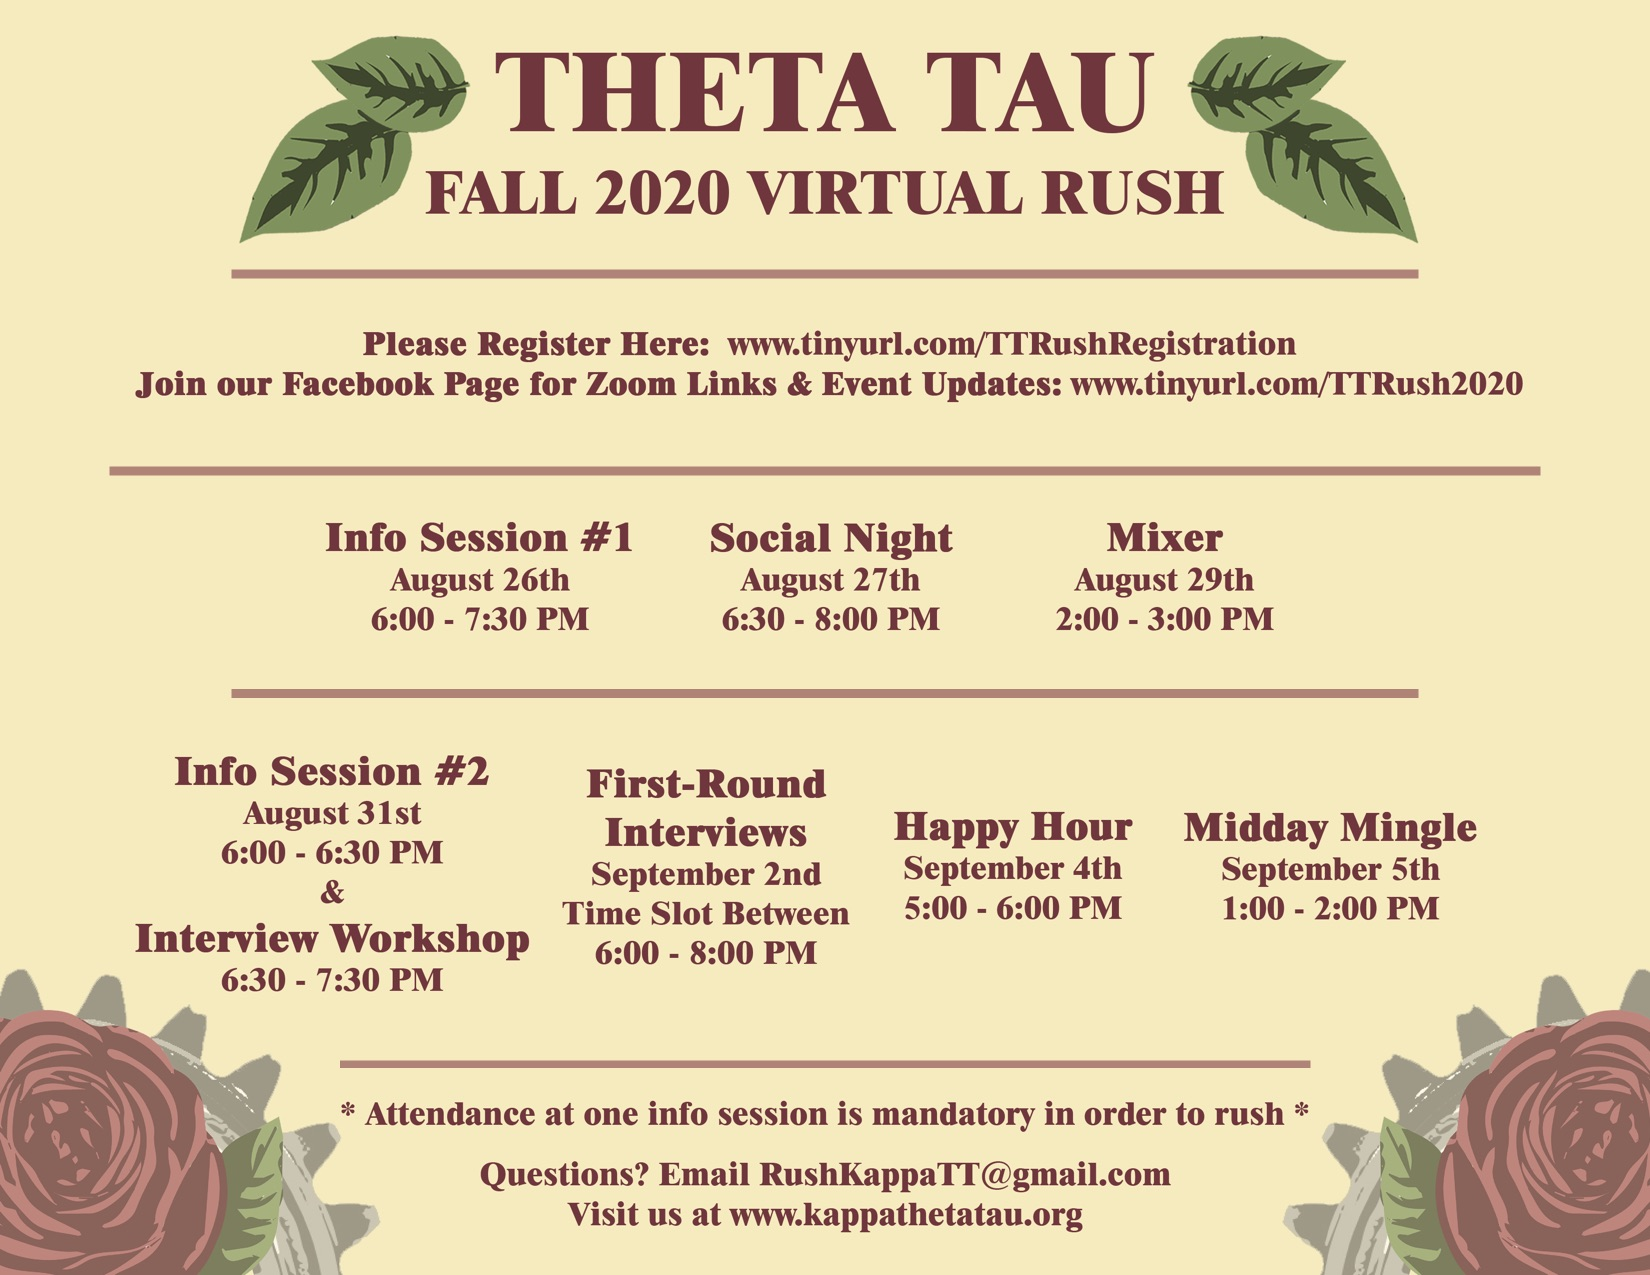
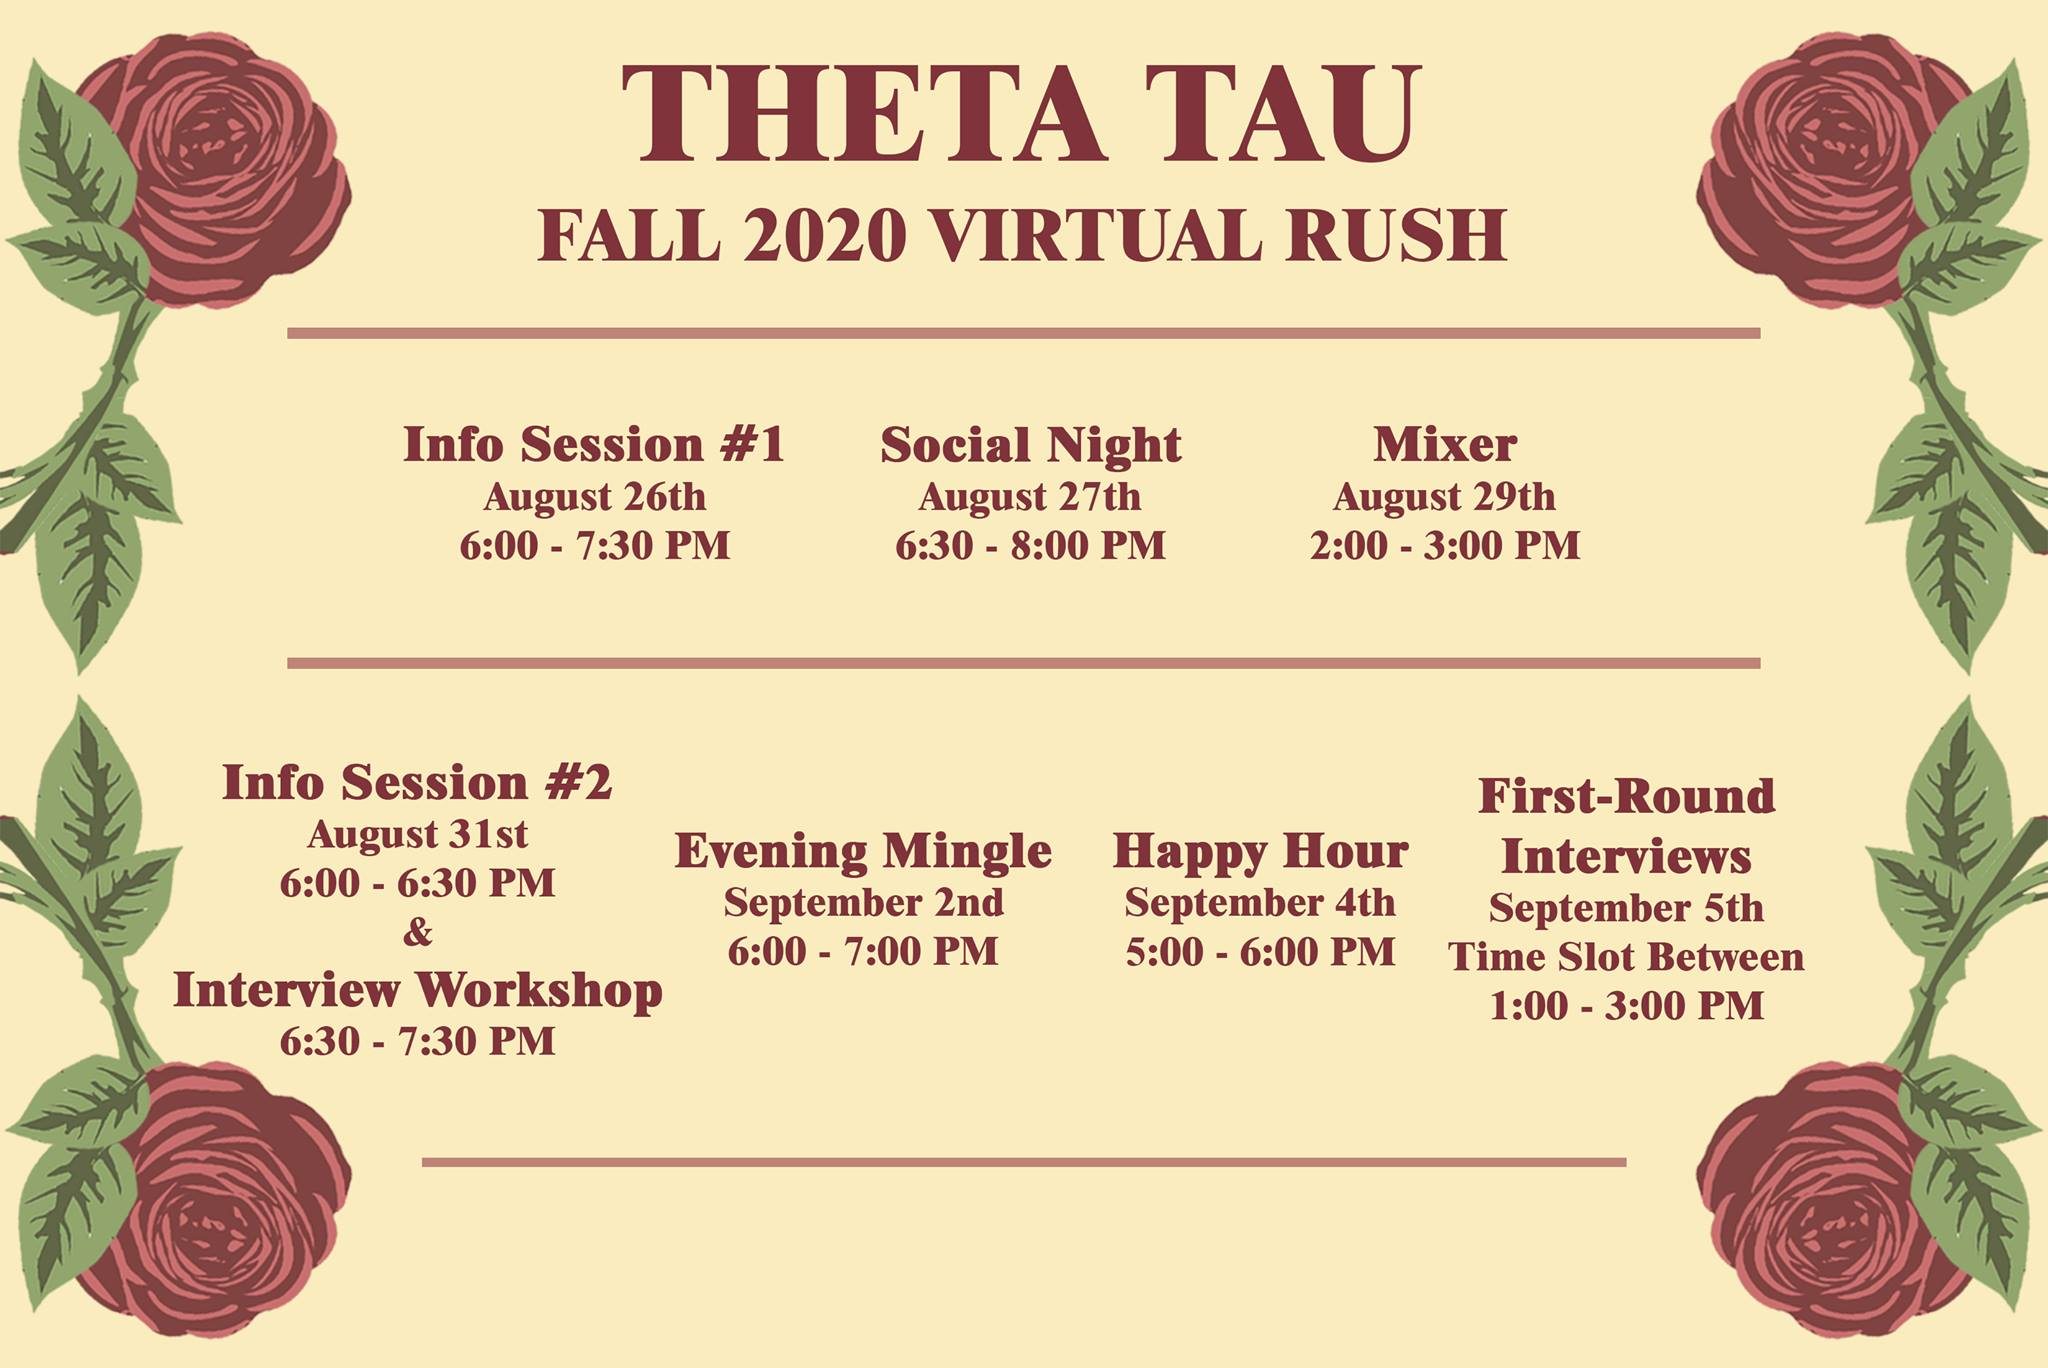
Updated fall rush

diff --git a/_posts/2020-08-14-fall-rush-2020.md b/_posts/2020-08-14-fall-rush-2020.md
@@ -21,9 +21,9 @@ Our first round schedule is as follows (note that attending at least one info se
 | Mixer                  | August 29th (Sat)   | 2:00PM - 3:00PM | Virtual             |
 | 2nd Info Session       | August 31st (Mon)   | 6:00PM - 6:30PM | Virtual             |
 | Interview Workshop     | August 31st (Mon)   | 6:30PM - 7:30PM | Virtual             |
-| First-Round Interviews | September 2nd (Wed) | 6:00PM - 8:00PM | Virtual (time slot) |
+| Evening Mingle         | September 2nd (Wed) | 6:00PM - 7:00PM | Virtual             |
 | Happy Hour             | September 4th (Fri) | 5:00PM - 6:00PM | Virtual             |
-| Midday Mingle          | September 5th (Sat) | 1:00PM - 2:00PM | Virtual             |
+| First-Round Interviews | September 5th (Sat) | 1:00PM - 3:00PM | Virtual (time slot) |
 
 - FAQ: <https://kappathetatau.org/2018/faq/>
 - Facebook page: <https://www.facebook.com/thetatau.kappa/>
